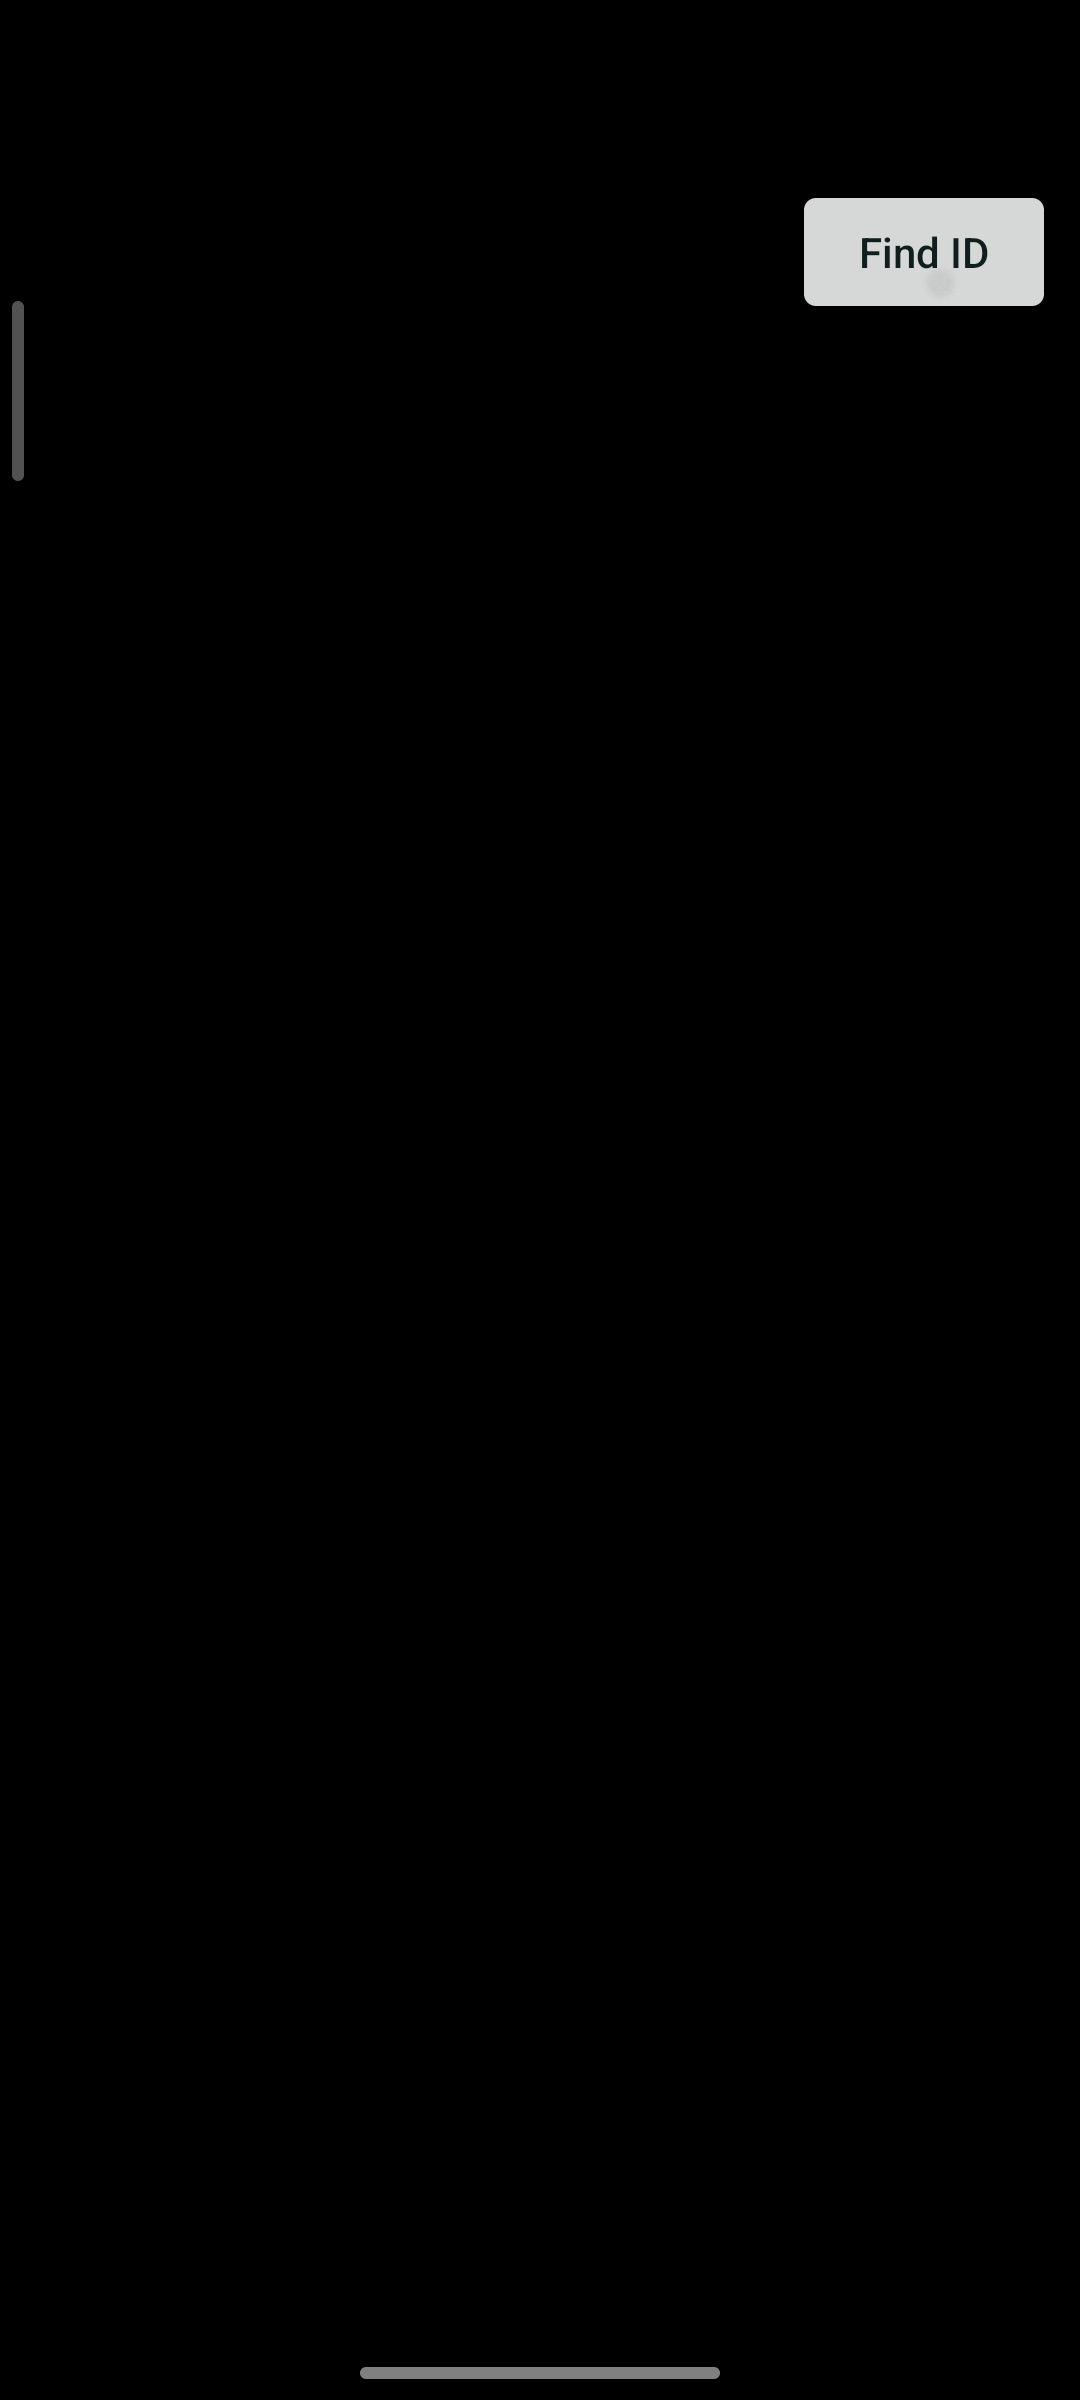
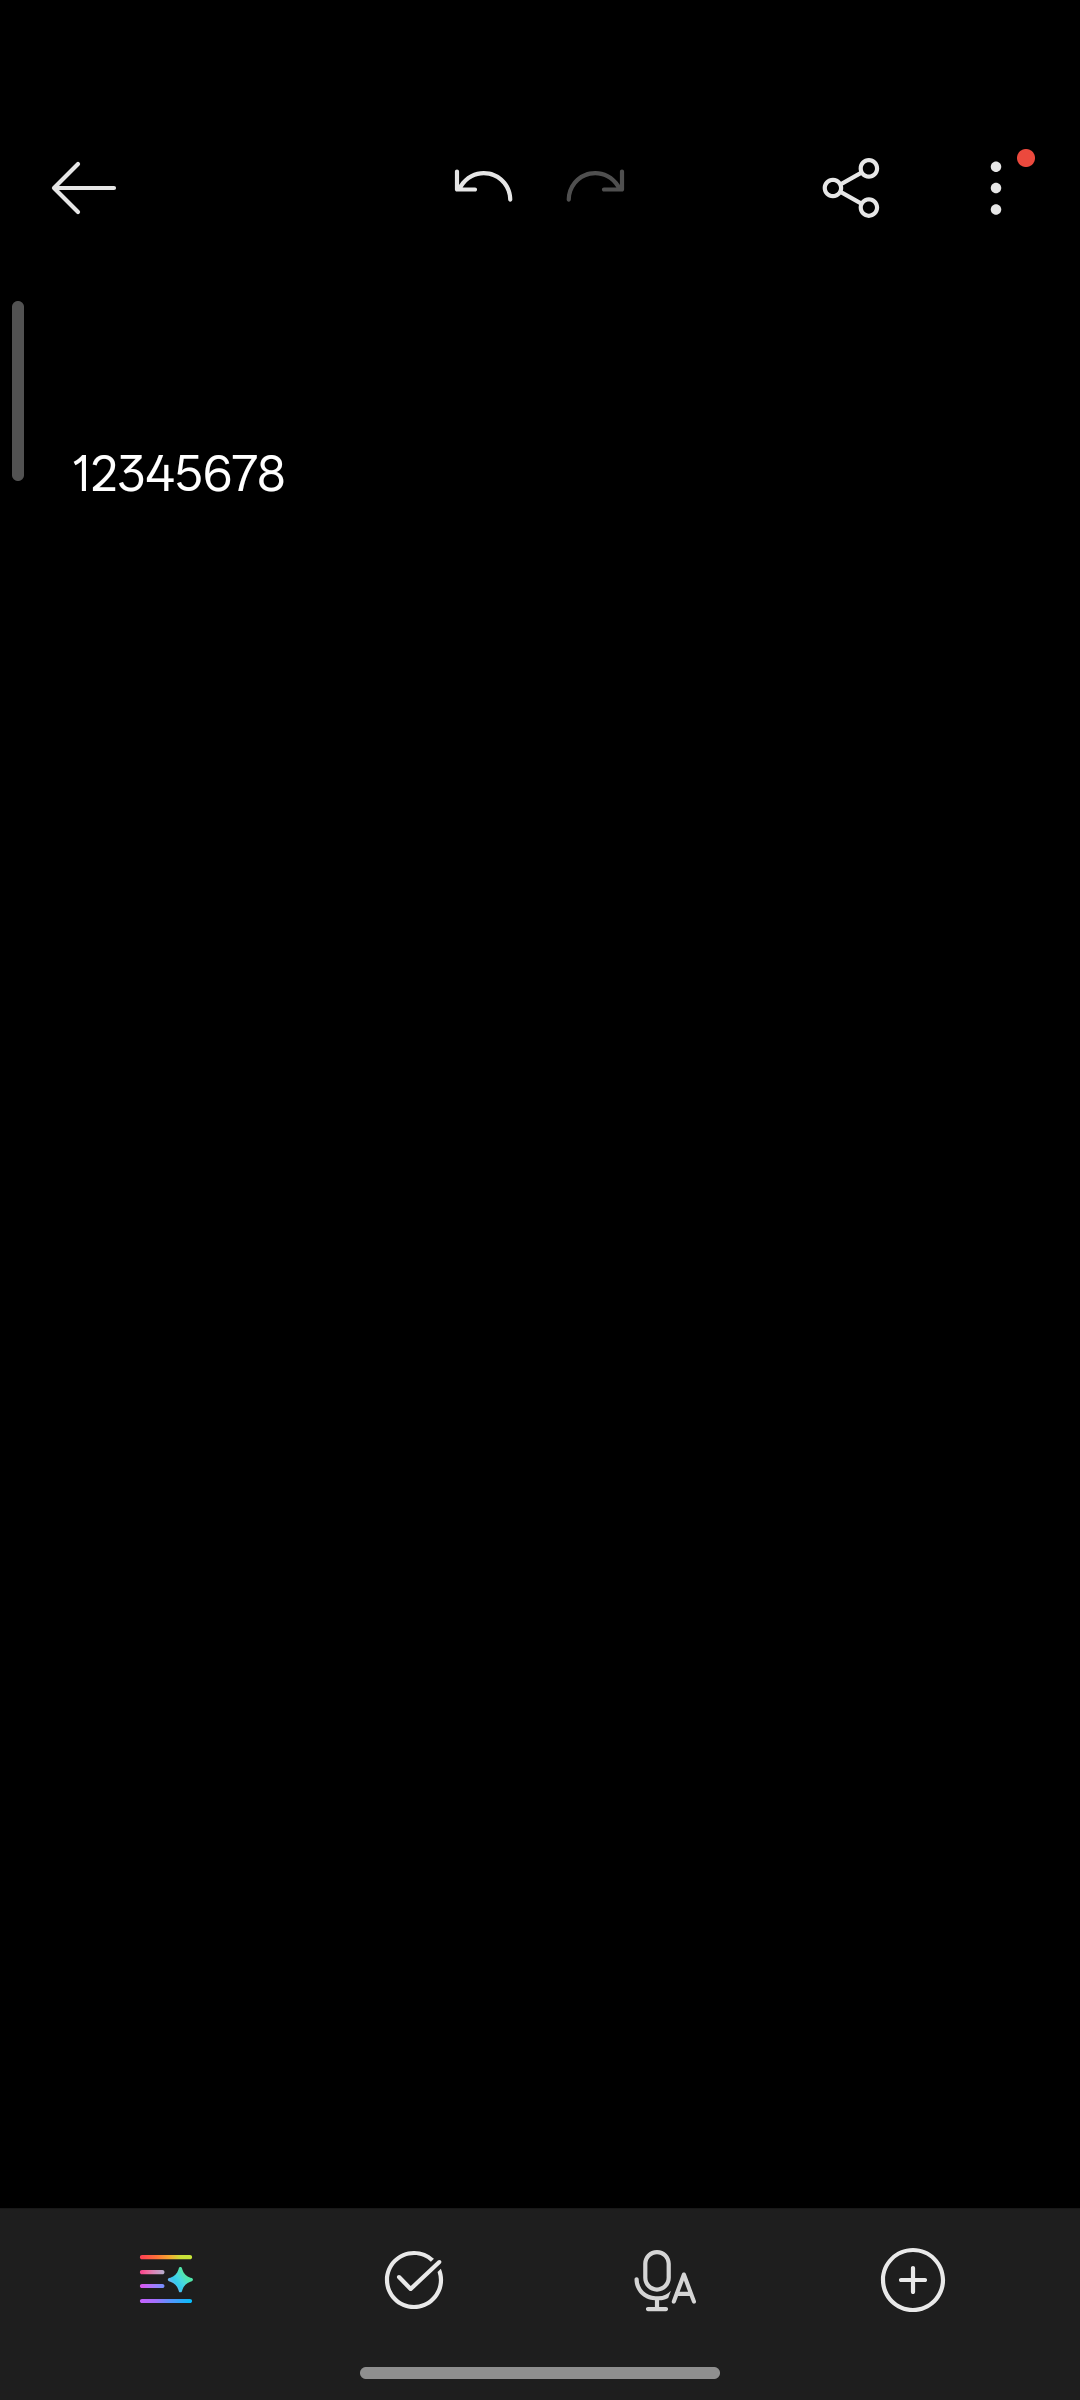
seventh commit

diff --git a/bridge/server.py b/bridge/server.py
@@ -4,6 +4,7 @@ import time
 import threading
 from flask import Flask, request, jsonify, abort
 from PIL import Image
+from PIL import ImageOps, ImageEnhance, ImageFilter
 import pytesseract
 
 pytesseract.pytesseract.tesseract_cmd = os.environ.get(
@@ -35,7 +36,26 @@ def screenshot():
     except Exception:
         return jsonify({"error": "Invalid image"}), 400
 
-    text = pytesseract.image_to_string(image, config="--psm 11")
+    # Convert to grayscale and increase contrast.
+    processed = ImageOps.grayscale(image)
+    processed = ImageOps.autocontrast(processed)
+
+    # Enlarge text to make individual digits easier to distinguish.
+    processed = processed.resize(
+        (processed.width * 3, processed.height * 3),
+        Image.Resampling.LANCZOS
+    )
+
+    processed = ImageEnhance.Contrast(processed).enhance(2.0)
+    processed = processed.filter(ImageFilter.SHARPEN)
+
+    # Recognize digits only; ignore other screen text and icons.
+    ocr_config = (
+        "--oem 3 --psm 11 "
+        "-c tessedit_char_whitelist=0123456789"
+    )
+
+    text = pytesseract.image_to_string(processed, config=ocr_config)
     print("OCR TEXT:", repr(text))
     image.save("debug_screenshot.png")
     print("Screenshot size:", image.size)
